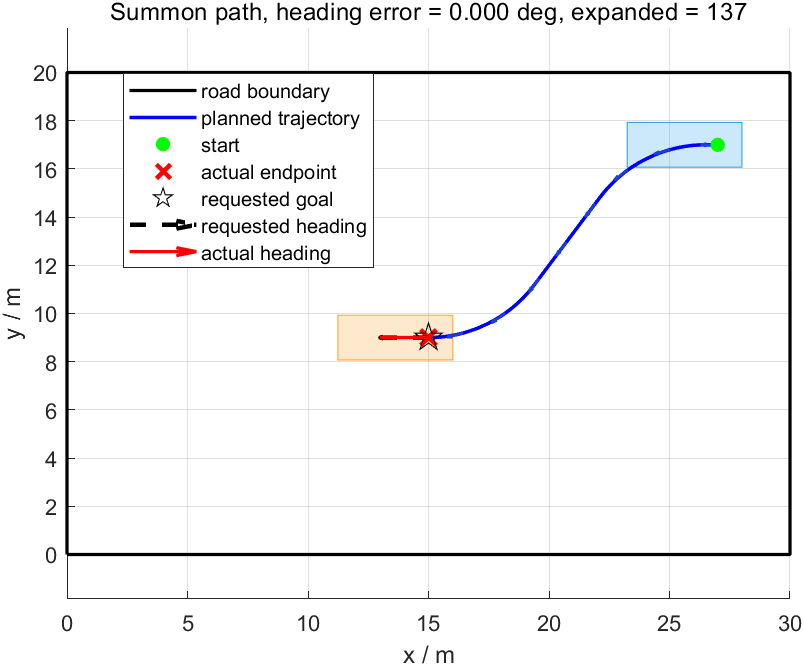
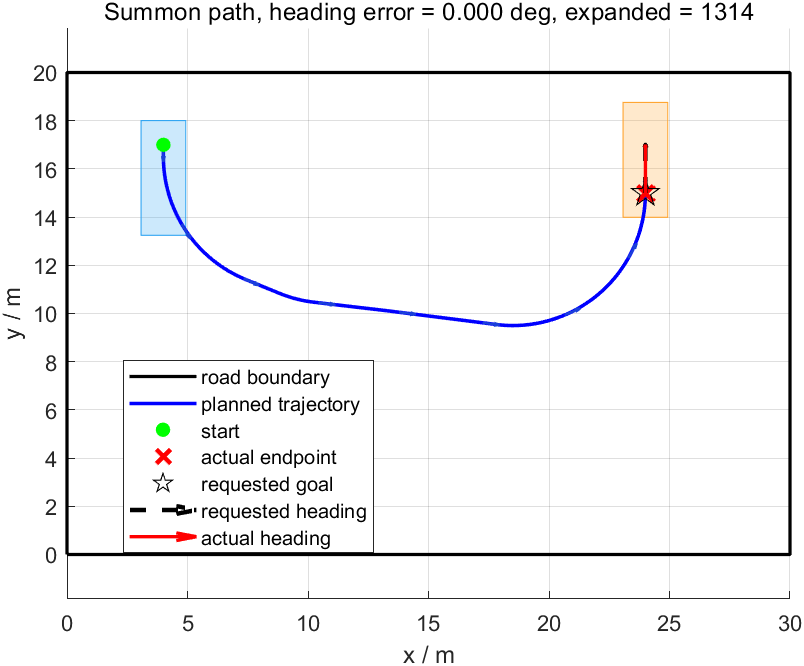
修改了day4代码

diff --git a/matlab/single_vehicle/run_vhybrid_astar_demo.m b/matlab/single_vehicle/run_vhybrid_astar_demo.m
@@ -9,7 +9,7 @@ function path = run_vhybrid_astar_demo(vehicle_index, save_outputs)
 %   使用 x/y/yaw/v/time 五维索引查重。搜索仅考虑静态道路边界，不使用多车动态障碍物。
 %   完成后输出搜索节点、最终路径以及速度-时间曲线图。
 
-if nargin < 1, vehicle_index = 2; end
+if nargin < 1, vehicle_index = 3; end
 if nargin < 2, save_outputs = true; end
 this_dir = fileparts(mfilename('fullpath'));
 project_dir = fileparts(fileparts(this_dir));
